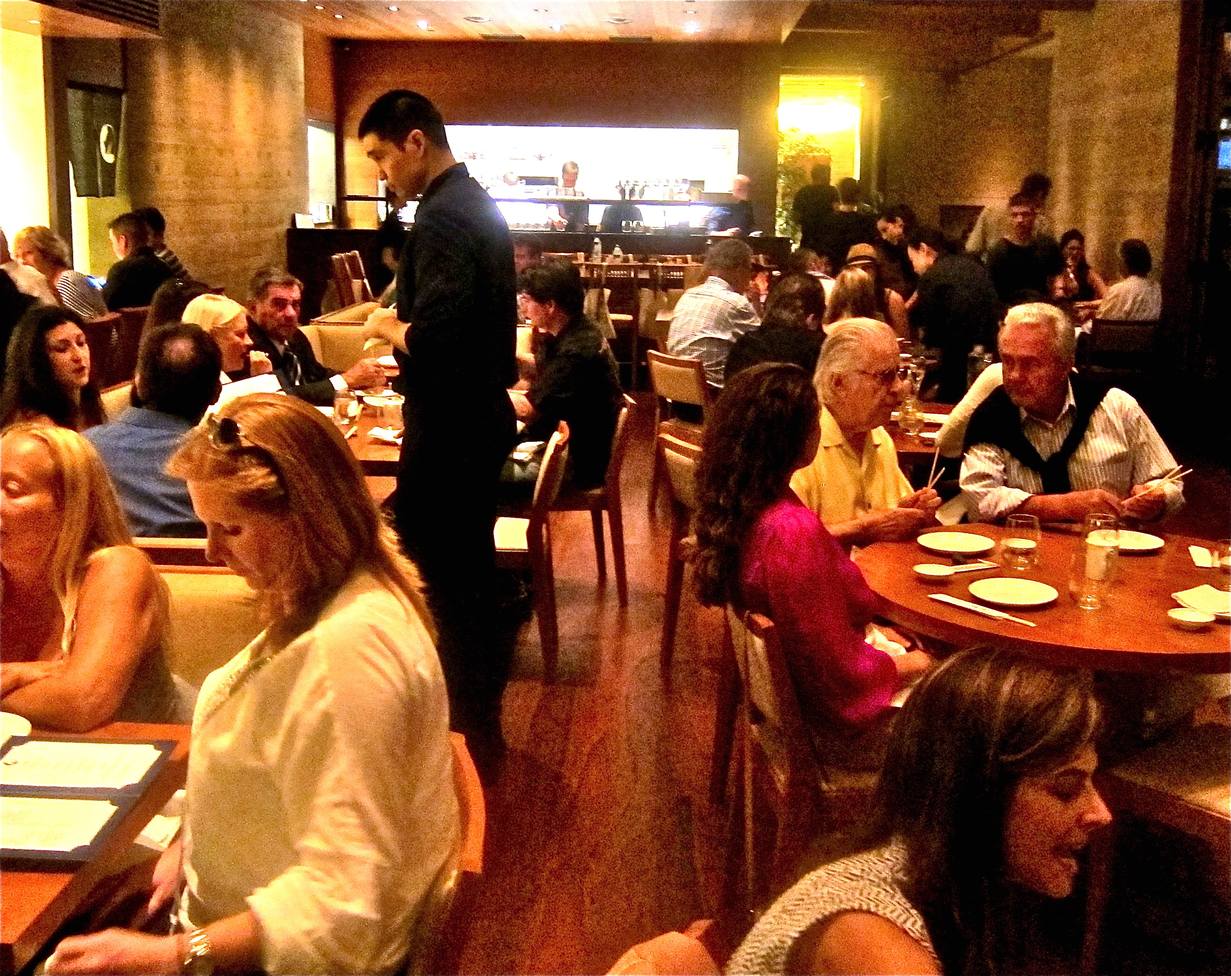
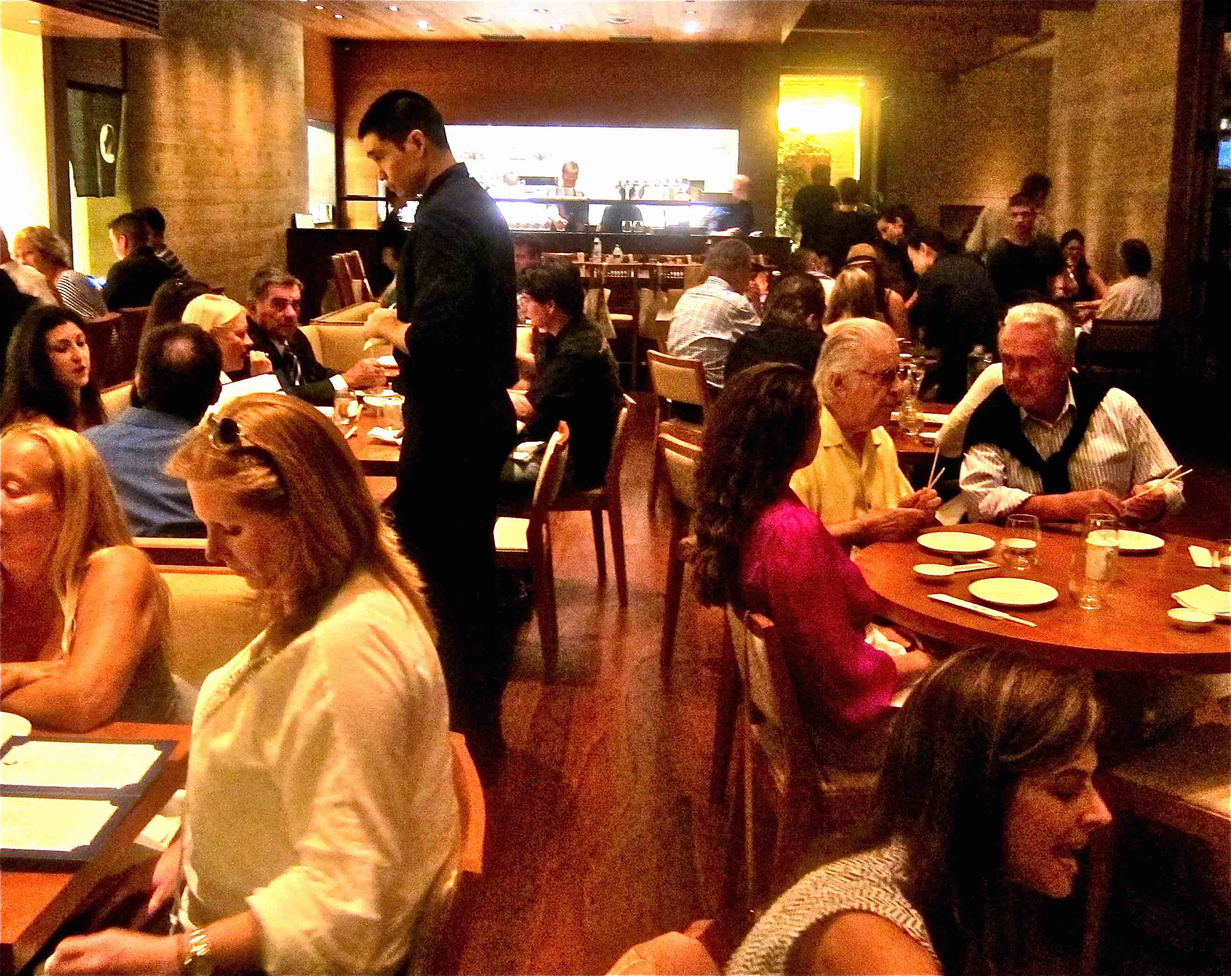
Reduced picture file size, converted to jpg

diff --git a/index.html b/index.html
@@ -301,9 +301,9 @@ ga('send', 'pageview');
     <!-- Slideshow 3 -->
     <ul class="rslides" id="slider3">
       <li><img src="images/beer_burgers.jpg" alt="Beer & Burgers" class="noMaxWidthImg"></li>
-      <li><img src="images/lemon-valley.png" alt="Lemon Valley" class="noMaxWidthImg"></li>
-      <li><img src="images/delizioso.png" alt="Delizioso" class="noMaxWidthImg"></li>
-      <li><img src="images/coffee-pizza.png" alt="Coffee and Pizza" class="noMaxWidthImg"></li>
+      <li><img src="images/lemon-valley.jpg" alt="Lemon Valley" class="noMaxWidthImg"></li>
+      <li><img src="images/delizioso.jpg" alt="Delizioso" class="noMaxWidthImg"></li>
+      <li><img src="images/coffee-pizza.jpg" alt="Coffee and Pizza" class="noMaxWidthImg"></li>
       <li><img src="images/jerry_harveys.jpg" alt="Jerry & Harvey's" class="noMaxWidthImg"></li>
       <li><img src="images/crypdesigns.jpg" alt="crypdesigns" class="noMaxWidthImg"></li>
       <li><img src="images/newsCloud.jpg" alt="newscloud" class="noMaxWidthImg"></li>
